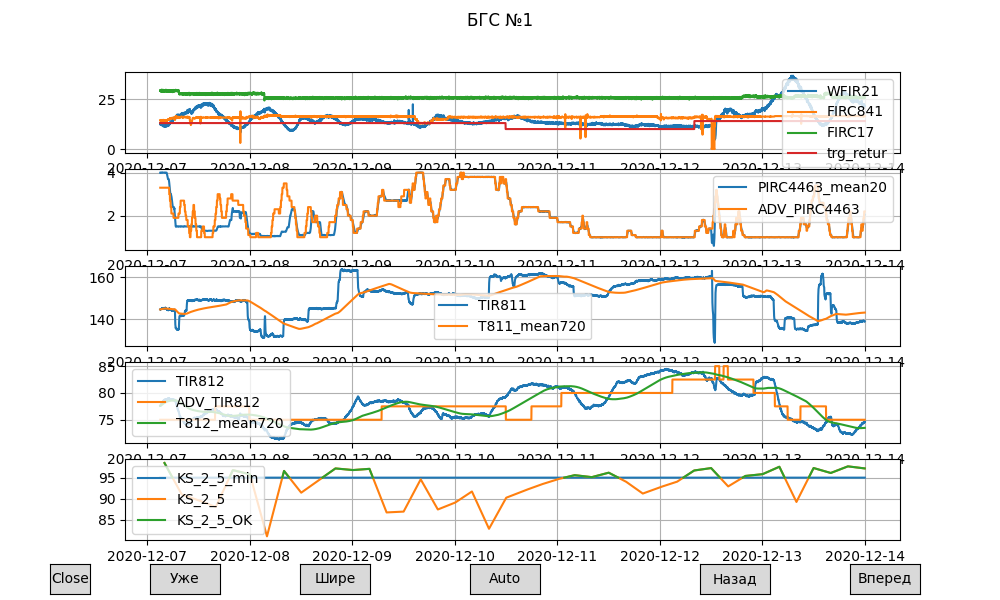
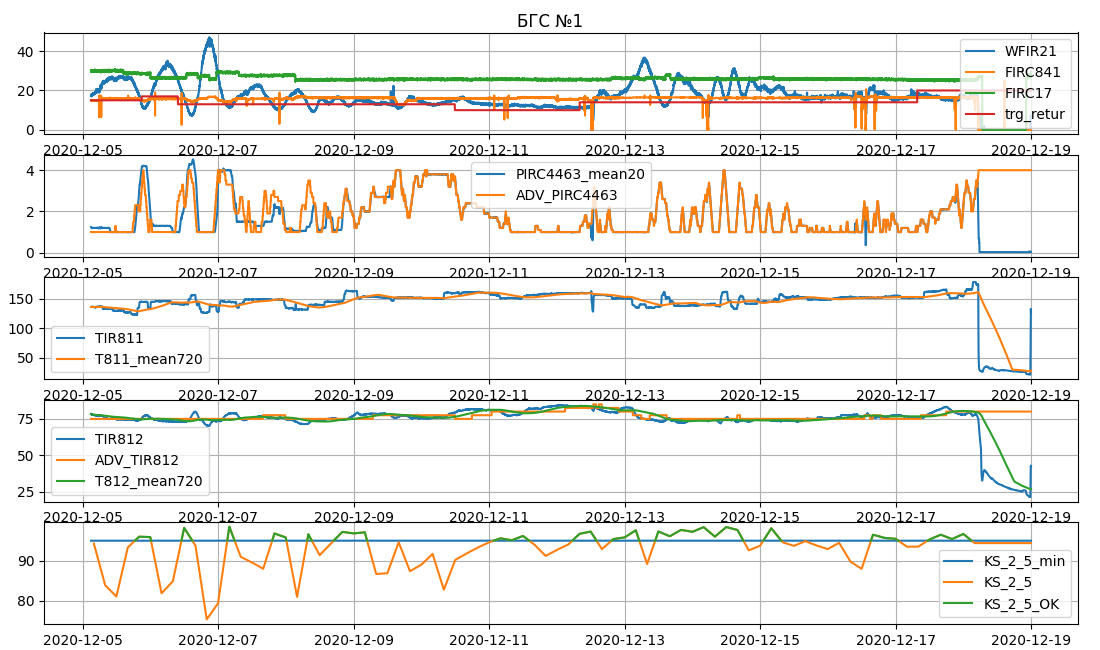
Добавил формирование отчета по выпуску продукта

diff --git a/main_docx.py b/main_docx.py
@@ -116,7 +116,7 @@ def prepare_data(dict_res_df):
         res_df['Delta_T'] = res_df['TIR811'] - res_df['TIR812']
         res_df['Q'] = (res_df['Delta_T'] * res_df['FIRC17']).rolling(15, min_periods=1).mean()
         res_df['FIRC841/Q'] = res_df['FIRC841']/res_df['Q']
-        res_df['Q/FIRC841'] = res_df['Q']/(res_df['FIRC841'].rolling(60, min_periods=1).mean()*res_df['D61_H2O_mn_align'])
+        res_df['QFIRC841'] = res_df['Q']/(res_df['FIRC841'].rolling(60, min_periods=1).mean()*res_df['D61_H2O_mn_align'])
 
         dict_res_df[bgs_id] = {'res_df':res_df}
 
@@ -138,6 +138,34 @@ def analisys4percent(res_df, params_limit, loc_dict):
         loc_dict['ADV_PIR16_perc'] = perc_PIR16
     return res_df, loc_dict
 
+def add_all_img(context, dict_res_df, sh_prop):
+    # Подготавливаю картинку
+    showlist = {}
+    for bgs_id, _ in dict_res_df.items():
+        print(f'Show BGS={bgs_id}')
+        res_df = dict_res_df[bgs_id]['res_df']
+        print(f'res_df.columns = {res_df.columns}')
+        res_df['newtime'] = res_df['newtime'] + pd.Timedelta(hours=3)
+        res_df.set_index('newtime', drop=False, inplace=True)
+        res_df = res_df.sort_index()
+
+        show = sh.Show(len(sh_prop), start, int((finish - start) / datetime.timedelta(minutes=1)), figsize=[11, 6.5],
+                       button_show=False)  # +pd.Timedelta(hours=3)
+
+        showlist[bgs_id] = show
+        show.fig.suptitle(f'БГС №{bgs_id}', fontsize=12)
+        for key, prop in sh_prop.items():
+            for name, col_name in prop.items():
+                show.add_plot(key, res_df['newtime'], res_df[col_name], label=name)
+
+    imgs = {}
+    for bgs_id, _ in showlist.items():
+        showlist[bgs_id].change_plot(0.1, legend=True)
+        showlist[bgs_id].savefig('imgtmp_' + str(bgs_id) + '.png')  # , dpi = 200
+        context['imgall_' + str(bgs_id)] = docxtpl.InlineImage(doc, 'imgtmp_' + str(bgs_id) + '.png')
+    plt.close('all')
+    return context
+
 params_limit = {'PIRC4463': {'diff': 0.3,'time_diff': 15},'TIR812': {'diff': 2,'time_diff': 70},'PIR16': {'diff': 1,'time_diff': 20}}
 
 params_dict = {'KS_2': 'KS_2_align', 'KS_2_5': 'KS_2_5_align', 'KS_Dcp': 'KS_Dcp_align', 'BGS_2_5': 'BGS_2_5_align',
@@ -149,8 +177,12 @@ parameter_properties = {'FIRC841':{'show':True,}
     , 'WFIR21':{'show':True,}
     , 'PIRC4463':{'show':True, 'adv_show':'ADV_PIRC4463'}
     , 'TIR812':{'show':True, 'adv_show':'ADV_TIR812'}
-    , 'TIR811':{'show':True,}
     ,  'PIR16':{'show':True, 'adv_show':'ADV_PIR16'}
+    , 'TIR811':{'show':True,}
+    , 'FIRC17':{'show':True,}
+    , 'Delta_T':{'show':True,}
+    , 'Q':{'show':True,}
+    , 'QFIRC841':{'show':False,}
     ,}
 conf = {'template_name': 'WeekReportTmplt.docx', 'weeks': {'week2020-11-02':{'start': '2020-11-02'}
     ,'week2020-11-09':{'start': '2020-11-09'}
@@ -158,6 +190,10 @@ conf = {'template_name': 'WeekReportTmplt.docx', 'weeks': {'week2020-11-02':{'st
     ,'week2020-11-23':{'start': '2020-11-23'}
     ,'week2020-11-30':{'start': '2020-11-30'}
     ,'week2020-12-07':{'start': '2020-12-07'}
+    ,'week2020-12-14':{'start': '2020-12-14'}
+    ,'week2020-12-21':{'start': '2020-12-21'}
+    ,'NS2020-09-25':{'start': '2020-09-25', 'finish':'2020-12-04', 'name_report':'Отчет производства NS'}
+    ,'IAS2020-12-05':{'start': '2020-12-05', 'finish':'2020-12-19', 'name_report':'Отчет производства ИАС'}
     ,}}
 
 SKIP_EXIST = True
@@ -165,15 +201,22 @@ SKIP_EXIST = True
 if __name__ == '__main__':
 
     for week, prop in conf['weeks'].items():
-        start = datetime.datetime.strptime(prop['start'], '%Y-%m-%d')
-        print(f'start = {start}')
-        otchet_file_name = os.getcwd()+'\\save\\'+'WeekReport'+str(start.year)+str(start.month)+str(start.day)+'.docx'
+        otchet_file_name = os.getcwd()+'\\save\\'+week+'.docx' #'WeekReport'+str(start.year)+str(start.month)+str(start.day)
         if os.path.exists(otchet_file_name) and SKIP_EXIST:
             continue
-        doc = docxtpl.DocxTemplate(conf['template_name'])
         context = {}
+        if 'name_report' in prop.keys():
+            context['name_report'] = prop['name_report']
+        else:
+            context['name_report'] = 'Еженедельный отчет'
+        start = datetime.datetime.strptime(prop['start'], '%Y-%m-%d')
+        print(f'start = {start}')
+        doc = docxtpl.DocxTemplate(conf['template_name'])
         context['start'] = start
-        finish = start + datetime.timedelta(days=7) #datetime.datetime.strptime(conf['finish'], '%Y-%m-%d') - datetime.timedelta(minutes=1)
+        if 'finish' in prop.keys():
+            finish = datetime.datetime.strptime(prop['finish'], '%Y-%m-%d')
+        else:
+            finish = start + datetime.timedelta(days=7) #datetime.datetime.strptime(conf['finish'], '%Y-%m-%d') - datetime.timedelta(minutes=1)
         context['finish'] = finish
         print(f'start = {start}, finish = {finish}')
         # Читаю и подготвавливаю данные
@@ -184,7 +227,7 @@ if __name__ == '__main__':
             print(f'Show BGS={bgs_id}')
             df = dict_res_df[bgs_id]['res_df']
             df = df[(df.index>=start)&(df.index<finish)]
-            wrk_tm = df[df['FIRC841'] > 0]['FIRC841'].count()
+            wrk_tm = df[df['FIRC841'] > 1]['FIRC841'].count()
             stop_tm = int((finish - start)/datetime.timedelta(minutes=1)) - wrk_tm
             context['worktime_' + str(bgs_id)] = str(int(wrk_tm/60)) + ' ч. ' + str(int(wrk_tm%60)) + ' мин.'
             context['stoptime_' + str(bgs_id)] = str(int(stop_tm/60)) + ' ч. ' + str(int(stop_tm%60)) + ' мин.'
@@ -199,12 +242,18 @@ if __name__ == '__main__':
             context['ADV_PIRC4463_perc_' + str(bgs_id)] = loc_dict['ADV_PIRC4463_perc']
             context['ADV_TIR812_perc_' + str(bgs_id)] = loc_dict['ADV_TIR812_perc']
             context['ADV_PIR16_perc_' + str(bgs_id)] = loc_dict['ADV_PIR16_perc']
+            context['bad_2_5_' + str(bgs_id)] = round(loc_dict['Вып.отсева.2_5'],2)
+            context['percent_bad_2_5_' + str(bgs_id)] = round(loc_dict['Вып.отсева.2_5']/loc_dict['Выпущено']*100.,2)
+            context['bad_2_' + str(bgs_id)] = round(loc_dict['Вып.отсева.2'], 2)
+            context['percent_bad_2_' + str(bgs_id)] = round(loc_dict['Вып.отсева.2']/loc_dict['Выпущено']*100., 2)
 
+            df_tmp = df[df['FIRC841']>1.]
             for param, prop in parameter_properties.items():
-                context[param+'_'+str(bgs_id)+'_mean'] = round(df[param].mean(),2)
-                context[param+'_'+str(bgs_id)+'_std'] = round(df[param].std(),2)
+                context[param+'_'+str(bgs_id)+'_mean'] = round(df_tmp[param].mean(),2)
+                context[param+'_'+str(bgs_id)+'_std'] = round(df_tmp[param].std(),2)
                 if prop['show']:
                     fig, ax = plt.subplots(1, figsize=[11,2])
+                    fig.subplots_adjust(left=0.04, right=0.98, top=0.95, bottom=0.12)
                     ax.plot(df.index, df[param], label = param)
                     if 'adv_show' in prop.keys():
                         ax.plot(df.index, df[prop['adv_show']], label = prop['adv_show'])
@@ -217,33 +266,7 @@ if __name__ == '__main__':
                     context['img_' + param + '_' + str(bgs_id)] = docxtpl.InlineImage(doc, namefltmp)
 
         print(f'context = {context}')
-
-        # Подготавливаю картинку
-        showlist = {}
-        for bgs_id, _ in dict_res_df.items():
-            print(f'Show BGS={bgs_id}')
-            res_df = dict_res_df[bgs_id]['res_df']
-            print(f'res_df.columns = {res_df.columns}')
-            res_df['newtime'] = res_df['newtime'] + pd.Timedelta(hours=3)
-            res_df.set_index('newtime', drop=False, inplace=True)
-            res_df = res_df.sort_index()
-
-            show = sh.Show(len(sh_prop), start, int((finish - start)/datetime.timedelta(minutes=1)))  # +pd.Timedelta(hours=3)
-
-            showlist[bgs_id] = show
-            show.fig.suptitle(f'БГС №{bgs_id}', fontsize=12)
-            for key, prop in sh_prop.items():
-                for name, col_name in prop.items():
-                    show.add_plot(key, res_df['newtime'], res_df[col_name], label=name)
-
-            #
-        imgs = {}
-        for bgs_id, _ in showlist.items():
-            showlist[bgs_id].change_plot(0.1, legend=True)
-            showlist[bgs_id].savefig('imgtmp_'+str(bgs_id)+'.png') #, dpi = 200
-            context['imgall_'+str(bgs_id)] = docxtpl.InlineImage(doc, 'imgtmp_'+str(bgs_id)+'.png')
-        plt.close('all')
-        #otchet_file_name = os.getcwd()+'\\save\\'+'WeekReport'+str(start.year)+str(start.month)+str(start.day)+'.docx'
+        context = add_all_img(context, dict_res_df, sh_prop)
         render_doc(doc, context, otchet_file_name)
 
 

diff --git a/show2img.py b/show2img.py
@@ -41,33 +41,33 @@ class ManageActs():
 
 
 class Show():
-    def __init__(self, num_axes, start, width, figsize = [10, 6]):
+    def __init__(self, num_axes, start, width, figsize = [10, 6], button_show = True):
         self.change = True
         self.num_axes = num_axes
         self.fig, self.ax = plt.subplots(num_axes, figsize = figsize)
-        self.fig.subplots_adjust(bottom=0.1)
+        self.fig.subplots_adjust(left = 0.04, right=0.98, top=0.95, bottom=0.04)
+        if button_show:
+            self.forward = plt.axes([0.85, 0.01, 0.07, 0.05])
+            self.backward = plt.axes([0.7, 0.01, 0.07, 0.05])
+            self.wider = plt.axes([0.30, 0.01, 0.07, 0.05])
+            self.tighter = plt.axes([0.15, 0.01, 0.07, 0.05])
+            self.aut = plt.axes([0.47, 0.01, 0.07, 0.05])
+            self.close = plt.axes([0.05, 0.01, 0.04, 0.05])
 
-        self.forward = plt.axes([0.85, 0.01, 0.07, 0.05])
-        self.backward = plt.axes([0.7, 0.01, 0.07, 0.05])
-        self.wider = plt.axes([0.30, 0.01, 0.07, 0.05])
-        self.tighter = plt.axes([0.15, 0.01, 0.07, 0.05])
-        self.aut = plt.axes([0.47, 0.01, 0.07, 0.05])
-        self.close = plt.axes([0.05, 0.01, 0.04, 0.05])
+            self.but_forward = wd.Button(self.forward, "Вперед")
+            self.but_backward = wd.Button(self.backward, 'Назад')
+            self.but_wider = wd.Button(self.wider, 'Шире')
+            self.but_tighter = wd.Button(self.tighter, 'Уже')
+            self.but_auto = wd.Button(self.aut, 'Auto')
+            self.but_close = wd.Button(self.close, 'Close')
 
-        self.but_forward = wd.Button(self.forward, "Вперед")
-        self.but_backward = wd.Button(self.backward, 'Назад')
-        self.but_wider = wd.Button(self.wider, 'Шире')
-        self.but_tighter = wd.Button(self.tighter, 'Уже')
-        self.but_auto = wd.Button(self.aut, 'Auto')
-        self.but_close = wd.Button(self.close, 'Close')
-
-        self.ma = ManageActs(self.ax, self)
-        self.but_forward.on_clicked(self.ma.forward)
-        self.but_backward.on_clicked(self.ma.backward)
-        self.but_wider.on_clicked(self.ma.wider)
-        self.but_tighter.on_clicked(self.ma.tighter)
-        self.but_auto.on_clicked(self.ma.change_auto)
-        self.but_close.on_clicked(self.ma.close)
+            self.ma = ManageActs(self.ax, self)
+            self.but_forward.on_clicked(self.ma.forward)
+            self.but_backward.on_clicked(self.ma.backward)
+            self.but_wider.on_clicked(self.ma.wider)
+            self.but_tighter.on_clicked(self.ma.tighter)
+            self.but_auto.on_clicked(self.ma.change_auto)
+            self.but_close.on_clicked(self.ma.close)
 
         self.plot_array = []
         self.scatter_array = []
